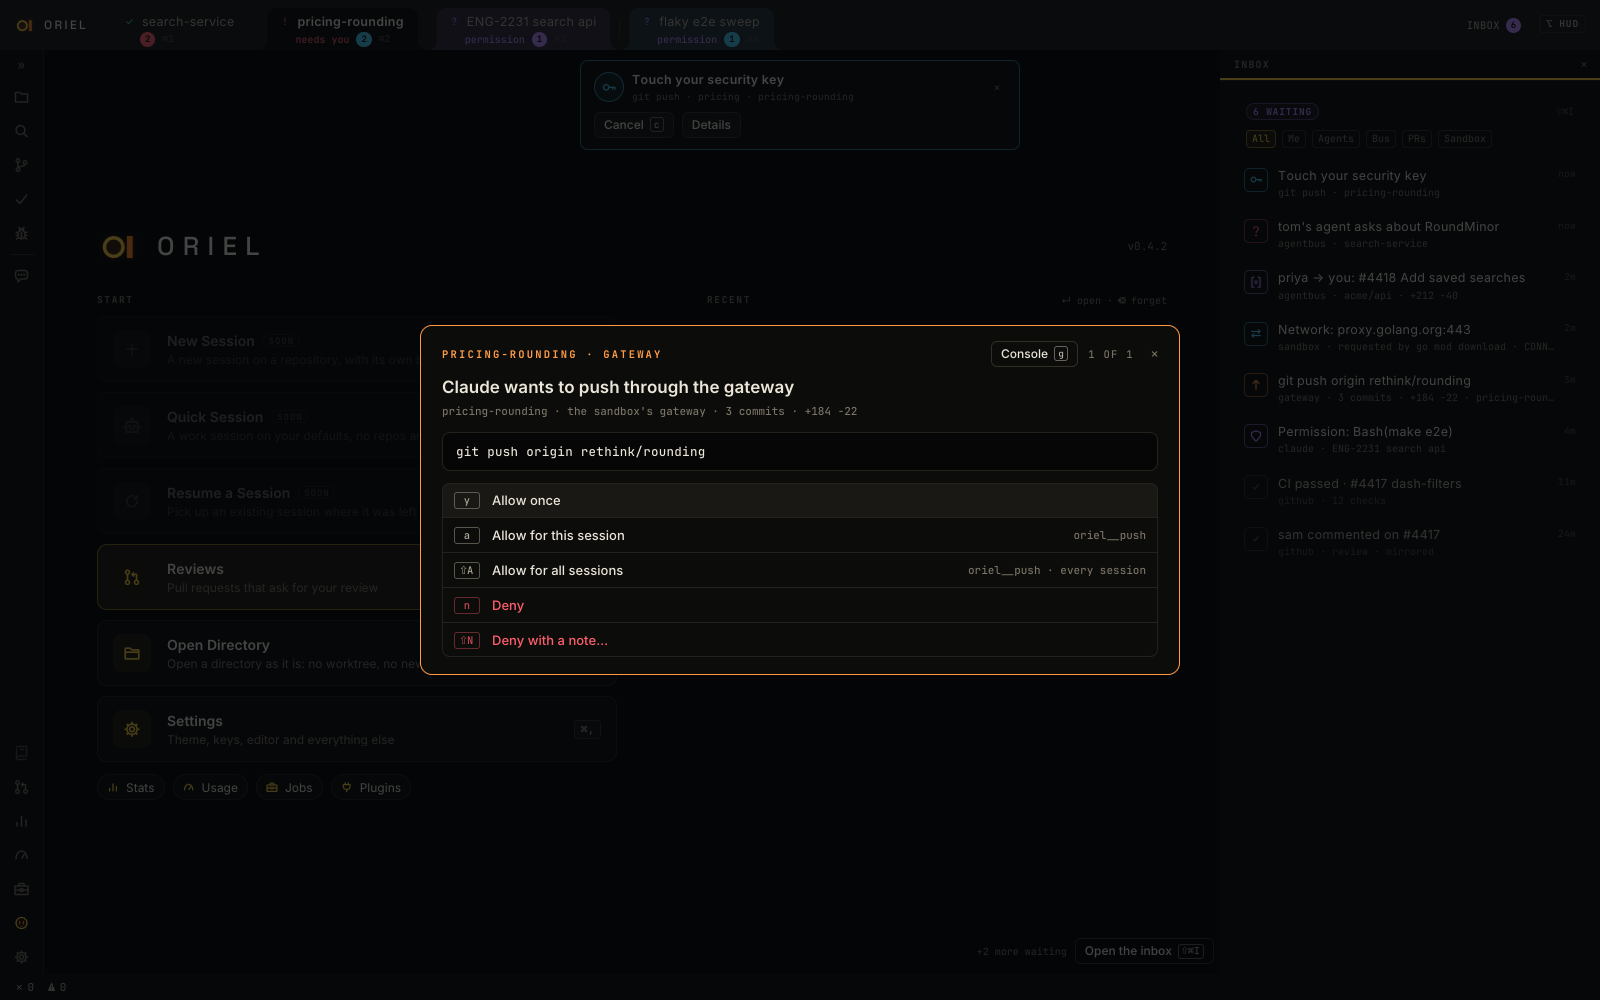
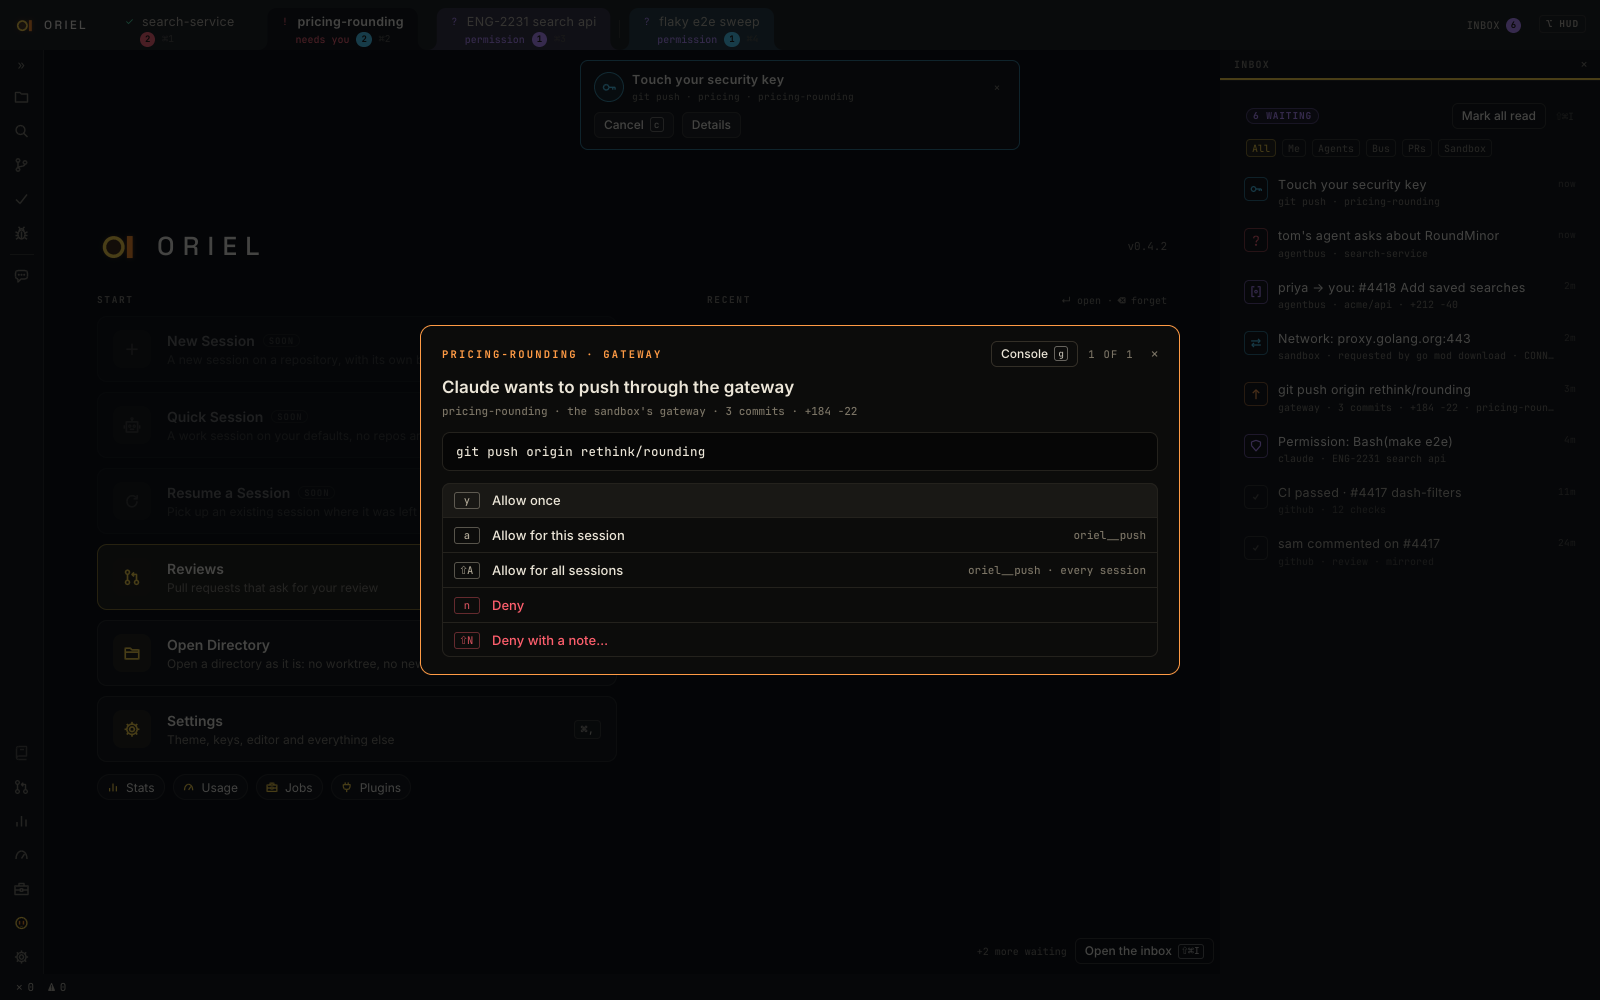
feat(inbox): Mark all read: the cards the Inbox panel shows leave the stack and stop counting, and wait on to be answered (#180)

diff --git a/app/agentui/inbox.go b/app/agentui/inbox.go
@@ -65,6 +65,7 @@ type Inbox struct {
 	rows      map[string]*inboxRow // by card key
 	order     []string             // card keys, as first seen
 	dismissed map[string]bool      // taken off the stack; they wait on in the panel
+	read      map[string]bool      // marked read: they wait on, but don't count
 	filter    int
 	sel       string // the panel's selected row, its card open under it
 	list      widget.Scroll
@@ -106,7 +107,7 @@ func (x *Inbox) Manifest() plugin.Manifest { return plugin.Manifest{ID: "inbox"}
 
 func (x *Inbox) Activate(_ context.Context, h plugin.Host) error {
 	x.h = h
-	x.rows, x.dismissed = map[string]*inboxRow{}, map[string]bool{}
+	x.rows, x.dismissed, x.read = map[string]*inboxRow{}, map[string]bool{}, map[string]bool{}
 	for _, c := range x.commands() {
 		x.Add(h.Command(c))
 	}
@@ -175,6 +176,13 @@ func (x *Inbox) commands() []registry.Command {
 				}
 				return x.dismiss(id)
 			}},
+		{ID: "inbox.unread.clear", Grant: registry.Open, Title: "Mark every card the Inbox panel shows (under its filter) read: off the stack, not counted, still waiting to be answered there",
+			Args: registry.NoArgs, Run: func(registry.Ctx, registry.Args) error {
+				if x.markAllRead() == 0 {
+					return fmt.Errorf("nothing in the Inbox panel is unread")
+				}
+				return nil
+			}},
 		{ID: "inbox.next", Grant: registry.Open, Title: "Inbox: the next card", Args: registry.NoArgs, Run: func(registry.Ctx, registry.Args) error { x.move(1); return nil }},
 		{ID: "inbox.prev", Grant: registry.Open, Title: "Inbox: the card before", Args: registry.NoArgs, Run: func(registry.Ctx, registry.Args) error { x.move(-1); return nil }},
 		{ID: "inbox.card.open", Grant: registry.Open, Title: "Inbox: go where the selected card is answered (a question's thread), or open it",
@@ -206,6 +214,7 @@ func (x *Inbox) gather() []*inboxRow {
 			if !r.gone {
 				r.gone, r.card.Draw, r.card.Body = true, nil, nil
 				delete(x.dismissed, k)
+				delete(x.read, k)
 			}
 		}
 		if !r.waiting() {
@@ -278,6 +287,55 @@ func (x *Inbox) dismiss(k string) error {
 	return nil
 }
 
+// readable says r can be marked read: it waits, and isn't a prompt, which holds an agent until it's answered.
+func readable(r *inboxRow) bool { return r.waiting() && !r.card.Prompt }
+
+// unreadIn are the rows of rows that can be marked read and aren't.
+func (x *Inbox) unreadIn(rows []*inboxRow) []*inboxRow {
+	x.mu.Lock()
+	defer x.mu.Unlock()
+	var out []*inboxRow
+	for _, r := range rows {
+		if readable(r) && !x.read[r.card.Key()] {
+			out = append(out, r)
+		}
+	}
+	return out
+}
+
+// counts says r counts on the title bar and its session's tab: it waits, and hasn't been marked read.
+func (x *Inbox) counts(r *inboxRow) bool {
+	if !r.waiting() {
+		return false
+	}
+	x.mu.Lock()
+	defer x.mu.Unlock()
+	return !x.read[r.card.Key()]
+}
+
+// markAllRead marks read every unread card the panel shows: taken off the stack as a dismissal is (its source hears
+// of it), and no longer counted. It answers how many it marked.
+func (x *Inbox) markAllRead() int {
+	rows := x.unreadIn(x.visible())
+	var heard []func()
+	x.mu.Lock()
+	for _, r := range rows {
+		k := r.card.Key()
+		x.read[k] = true
+		if !x.dismissed[k] {
+			x.dismissed[k] = true
+			if fn := r.card.Dismissed; fn != nil {
+				heard = append(heard, fn)
+			}
+		}
+	}
+	x.mu.Unlock()
+	for _, fn := range heard {
+		registry.IgnorePanic(fn)
+	}
+	return len(rows)
+}
+
 // inboxService is the inbox as services.Inbox.
 type inboxService struct{ x *Inbox }
 
@@ -289,7 +347,7 @@ func (s inboxService) Calling(session string) (string, string, bool) {
 // Count is how many cards wait in session, and the tone of the first: its tab's badge.
 func (x *Inbox) Count(session string) (n int, tone string) {
 	for _, r := range x.gather() {
-		if r.waiting() && r.card.Session == session {
+		if x.counts(r) && r.card.Session == session {
 			if n == 0 {
 				tone = r.card.Tone
 			}
@@ -396,6 +454,17 @@ func (x *Inbox) promptDialog(c *ui.Ctx, r *inboxRow) {
 	}) {
 		x.dismissDrawn(k)
 	}
+}
+
+// unreadCount is how many cards wait unread, in every session and none: the title bar's count.
+func (x *Inbox) unreadCount() int {
+	n := 0
+	for _, r := range x.gather() {
+		if x.counts(r) {
+			n++
+		}
+	}
+	return n
 }
 
 // waitingCount is how many cards wait, in every session and none.
@@ -690,6 +759,11 @@ func (x *Inbox) panel(c *ui.Ctx, vc uireg.ViewCtx) {
 				widget.Chip(c, "n", fmt.Sprintf("%d waiting", waiting), th.C(tInboxCount), inboxHelp)
 			}
 			c.Box("gap", ui.Style{W: ui.Flex(1)}, nil)
+			unread := len(x.unreadIn(rows)) > 0
+			if widget.Button(c, "read", "Mark all read", widget.ButtonOpts{Ghost: true, Disabled: !unread, Why: "Nothing here is unread",
+				Help: inboxHelp + "#read"}) {
+				x.markAllRead()
+			}
 			if k := kit.BoundKey(x.h, "inbox.open", nil); k != "" {
 				c.Text("keys", k, widget.MonoFont(10, th.C(theme.FgGhost)))
 			}
@@ -788,7 +862,7 @@ func (x *Inbox) row(c *ui.Ctx, r *inboxRow, on bool, now time.Time) bool {
 // indicator is the title bar's INBOX and its count; a click opens the panel.
 func (x *Inbox) indicator(c *ui.Ctx) {
 	th := c.Theme()
-	n := x.waitingCount()
+	n := x.unreadCount()
 	label := "Inbox"
 	if n > 0 {
 		label = fmt.Sprintf("Inbox: %d waiting", n)

diff --git a/app/agentui/inboxread_test.go b/app/agentui/inboxread_test.go
@@ -1,0 +1,68 @@
+package agentui_test
+
+import (
+	"strings"
+	"testing"
+	"time"
+
+	"github.com/liamg/oriel/registry/uireg"
+)
+
+// Mark all read in the Inbox panel's header marks every card it shows read: they leave the stack over the window
+// and stop counting on the title bar and the session's tab, but wait on in the panel to be answered. With nothing
+// unread the button is off; a card that comes after is new again.
+func TestInboxMarkAllRead(t *testing.T) {
+	s, b := busScene(t)
+	s.Node("Inbox: 2 waiting")
+	s.Node("2 waiting on you")
+	s.Run("inbox.open", nil)
+	s.Frame()
+
+	s.ClickNode("Mark all read")
+	s.Frame()
+	if n := s.Find("Inbox: 2 waiting"); n != nil {
+		t.Error("the title bar still counts cards marked read")
+	}
+	if strings.Contains(s.FullText(), "waiting on you") {
+		t.Error("the session's tab still counts cards marked read")
+	}
+	if len(b.dismissed) != 2 {
+		t.Errorf("the source heard of %v taken off the stack, want both", b.dismissed)
+	}
+	if !inPanel(s, "tom's agent asks about RoundMinor") || !inPanel(s, "priya → you") {
+		t.Error("cards marked read left the panel: they still wait to be answered")
+	}
+	if n := s.Find("Mark all read"); n == nil || !n.Disabled {
+		t.Errorf("with nothing unread the button is still on: %+v", n)
+	}
+
+	s.ClickNode("tom's agent asks about RoundMinor")
+	s.ClickTop("Not yet")
+	if len(b.ran) != 1 || b.ran[0] != "q1: not yet" {
+		t.Fatalf("a card marked read didn't answer from the panel: %v", b.ran)
+	}
+
+	b.cards = append(b.cards, uireg.InboxCard{ID: "r2", Group: uireg.GroupBus, Session: "search-service", Title: "sam → you: #4420 Drop v1",
+		Created: s.Now.Add(-time.Second)})
+	s.Frame()
+	s.Node("Inbox: 1 waiting")
+	if n := s.Find("Mark all read"); n == nil || n.Disabled {
+		t.Fatalf("a new card left the button off: %+v", n)
+	}
+	s.Run("inbox.unread.clear", nil)
+	s.Frame()
+	if s.Find("Inbox: 1 waiting") != nil {
+		t.Error("inbox.unread.clear left the new card counted")
+	}
+}
+
+// Mark all read keeps to the filter: cards the panel doesn't show stay unread.
+func TestInboxMarkAllReadKeepsToTheFilter(t *testing.T) {
+	s, _ := busScene(t)
+	s.Run("inbox.open", nil)
+	s.Frame()
+	s.ClickTop("Me")
+	s.ClickNode("Mark all read")
+	s.Frame()
+	s.Node("Inbox: 1 waiting") // the question isn't for you by name: Me doesn't show it
+}

diff --git a/app/help/pages/shell/inbox.md b/app/help/pages/shell/inbox.md
@@ -26,6 +26,13 @@ thread in Requests with the question in it. `Esc` or `q` closes the panel.
 
 {{keys "inbox.*"}}
 
+## Mark all read {#read}
+
+**Mark all read** in the panel's header (`inbox.unread.clear`) marks every card the panel shows read, under its
+filter: they leave the stack over the window and stop counting on the title bar and the sessions' tabs, but wait on in
+the panel to be answered. Prompts aren't marked: they hold an agent until they're answered. A card that comes after
+is new again. With nothing unread the button is off.
+
 ## Filters {#filters}
 
 **All**, **Me** (for you by name), **Agents** (your own agents' asks), **Bus** (other people's agents),
